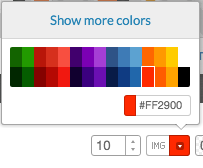
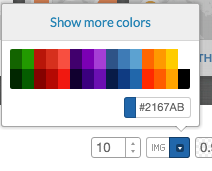
Stilying layers. Work in progress

Changed region(s): [[0.0, 0.0, 1.0, 0.9524], [0.2365, 0.0893, 0.7389, 0.1786]]

diff --git a/doc/modulo_cartodb_master_bigdata_bbva.md b/doc/modulo_cartodb_master_bigdata_bbva.md
@@ -449,7 +449,7 @@ En esta visualización, queremos ver cada una de las estaciones de Bicimad por s
 
 ![Wizard visualizacion simple de puntos][wizard_simple_viz]
 
-Lo primero que vamos a hacer es cambiar el color del icono a rojo. Para ello, pinchamos en el botón de cambio de color de la opción *Marker fill*, y elegimos el rojo, como se puede ver en la imagen
+Lo primero que vamos a hacer es cambiar el color del icono a rojo. Para ello, pinchamos en el botón de cambio de color de la opción *Marker fill*, y elegimos el azul, como se puede ver en la imagen
 
 ![Cambio color icono marker][change_color_icon]
 
@@ -461,7 +461,7 @@ Elegiremos el pin 45 de la pestaña *Pin icons*, como se resalta en la imagen
 
 ![Eligiendo icono de bici][bike_icon]
 
-Hecho esto, observamos que nuestros iconos circulares se han transformado en pequeños iconos de color rojo conteniendo bicicletas
+Hecho esto, observamos que nuestros iconos circulares se han transformado en pequeños iconos de color azul conteniendo bicicletas
 
 ![Iconos de tipo bici][map_with_bike_icons]
 
@@ -473,7 +473,80 @@ Una vez hemos terminado de estilar nuestros puntos, vamos a revisar la pestaña 
 
 Por supuesto, siempre podremos tocar a mano el CartoCSS, si nos sentimos más cómodos haciéndolo así que vía *wizard*.
 
+Hemos terminado con nuestra capa de puntos. Vamos a por la capa de líneas.
 
+## Estilando nuestros datos de tipo línea
+
+Para estilar nuestra capa de puntos, activamos otra vez la visibilidad de la capa. Posteriormente, cambiamos el color de la línea a verde, para contrastar con el azul de las estaciones.
+
+![Cambio color línea][line_to_green]
+
+Hecho esto, ya podemos ver algo interesante en el mapa. A pesar de que la zona norte de Madrid (de Chamberí hacia arriba) dispone de bastantes ciclocarriles, no hay aun estaciones de Bicimad en la zona.
+
+![Estaciones y ciclocarriles][stations_and_paths]
+
+No vamos a hacer más con nuestra capa de líneas. Pasemos a la capa de polígonos.
+
+## Estilando nuestros datos de tipo polígono
+
+Por último, activamos la visibilidad de nuestra capa de tipo polígono, y nos dirigimos al *wizard*. Lo primero que nos llama la atención es que la capa de polígonos tapan las otras dos capas de datos.
+
+![Polígonos tapando capas][polygon_layer_first]
+
+Vamos a arreglarlo moviendo la capa de polígonos abajo del todo. Para ello, solo tenemos que pinchar en el menú lateral derecho, a la altura del número que indica la capa, y arrastrar la capa hacia abajo. El resultado es mucho más claro
+
+![Polígonos por debajo][polygon_layer_background]
+
+Dada la naturaleza de nuestros datos poligonales, hay dos tipos de visualizaciones que tienen sentido:
+
+* Mapa de categorías, usando la columna de *nombre* como categoría.
+* Mapa de coropletas, usando la columna de *pob_density*, de densidad de población, como columna numérica.
+
+Con el primer mapa, simplemente vemos cada distrito por separado, y una leyenda en la parte inferior derecha.
+
+![Mapa de categorías][category_map]
+
+Si le echamos un vistazo al CartoCSS de la capa, podemos ver cómo se aplican los diferentes colores en función del campo *nombre* de la capa
+
+![CartoCSS mapa de categorías][cartocss_category_map]
+
+Con el segundo mapa, lo que vemos es un código de colores más oscuro cuanto más densidad de población tiene el distrito representado.
+
+![Mapa de coropletas][choroplet_map]
+
+En cuanto al CartoCSS, vemos que, en esta ocasión, los diferentes colores se están aplicando en función de comparar un valor numérico con un valor umbral. Este valor umbral está calculado automáticamente en función de dos parámetros:
+
+* El número de *Buckets* que decidamos que queremos utilizar para distribuir nuestros valores.
+
+![Desplegable coropletas buckets][choroplet_buckets_select]
+
+* El método que utilicemos para distribuir estos valores
+
+![Desplegable coropletas cuantificación][choroplet_quantification_select]
+
+Para entender más acerca de métodos de cuantificación, podemos consultar la [documentación de CartoDB](http://docs.cartodb.com/cartodb-editor/maps/#choropleth). Simplemente, añadir que, en cualquier momento, podemos cambiar el código CartoCSS de manera manual, para especificar nuestros propios valores umbrales.
+
+Fijémonos ahora en la parte inferior derecha del mapa. Ha aparecido automáticamente una leyenda que muestra una rampa de colores con unos valores máximo y mínimo.
+
+![Leyenda mapa coropletas][choroplet_legend]
+
+La leyenda, tal y como está, no nos aporta demasiada información. No sabemos qué significan esos números, ni esos colores. Vamos a modificar algunas cosas. Para ello, entramos en la pestaña *Legends* de la capa de polígonos.
+
+![Opciones leyenda mapa coropletas][choroplet_legend_options]
+
+Vemos que aparece seleccionada *choroplet* como plantilla para la leyenda. Si queremos ver el código HTML de la plantilla, solo tenemos que pulsar en el icono con forma de etiqueta HTML. En la imagen se ve resaltado
+
+![Botón cambio HTML leyenda][edit_html_legend]
+
+El código es HTML estándar, como se puede comprobar
+
+![HTML plantilla leyenda][html_legend]
+
+Vamos a dejar el código HTML como está, y limitarnos a cambiar los valores numéricos por algo más significativo. Además, añadiremos un título a la leyenda.
+
+![Plantilla leyenda coropletas modificada][choroplet_template_modified]
+
+Por supuesto, si quisiéramos crear una plantilla totalmente personalizada, solo tenemos que elegir la opción *custom* en el desplegable.
 
 
 ## Filtrando datos: Pestaña de filtros
@@ -612,3 +685,17 @@ TODO
 [change_color_icon]: https://raw.githubusercontent.com/MapWorkshops/CartoDB-Intro/spanish/doc/img/change_color_icon.png
 [map_with_bike_icons]: https://raw.githubusercontent.com/MapWorkshops/CartoDB-Intro/spanish/doc/img/map_with_bike_icons.png
 [cartocss_point_layer]: https://raw.githubusercontent.com/MapWorkshops/CartoDB-Intro/spanish/doc/img/cartocss_point_layer.png
+[line_to_green]: https://raw.githubusercontent.com/MapWorkshops/CartoDB-Intro/spanish/doc/img/line_to_green.png
+[stations_and_paths]: https://raw.githubusercontent.com/MapWorkshops/CartoDB-Intro/spanish/doc/img/stations_and_paths.png
+[polygon_layer_first]: https://raw.githubusercontent.com/MapWorkshops/CartoDB-Intro/spanish/doc/img/poligon_layer_first.png
+[polygon_layer_background]: https://raw.githubusercontent.com/MapWorkshops/CartoDB-Intro/spanish/doc/img/polygon_layer_background.png
+[category_map]: https://raw.githubusercontent.com/MapWorkshops/CartoDB-Intro/spanish/doc/img/category_map.png
+[cartocss_category_map]: https://raw.githubusercontent.com/MapWorkshops/CartoDB-Intro/spanish/doc/img/cartocss_category_map.png
+[choroplet_map]: https://raw.githubusercontent.com/MapWorkshops/CartoDB-Intro/spanish/doc/img/choroplet_map.png
+[choroplet_buckets_select]: https://raw.githubusercontent.com/MapWorkshops/CartoDB-Intro/spanish/doc/img/choroplet_buckets_select.png
+[choroplet_quantification_select]: https://raw.githubusercontent.com/MapWorkshops/CartoDB-Intro/spanish/doc/img/choroplet_quantification_select.png
+[choroplet_legend]: https://raw.githubusercontent.com/MapWorkshops/CartoDB-Intro/spanish/doc/img/choroplet_legend.png
+[choroplet_legend_options]: https://raw.githubusercontent.com/MapWorkshops/CartoDB-Intro/spanish/doc/img/choroplet_legend_options.png
+[edit_html_legend]: https://raw.githubusercontent.com/MapWorkshops/CartoDB-Intro/spanish/doc/img/edit_html_legend.png
+[html_legend]: https://raw.githubusercontent.com/MapWorkshops/CartoDB-Intro/spanish/doc/img/html_legend.png
+[choroplet_template_modified]: https://raw.githubusercontent.com/MapWorkshops/CartoDB-Intro/spanish/doc/img/choroplet_template_modified.png
